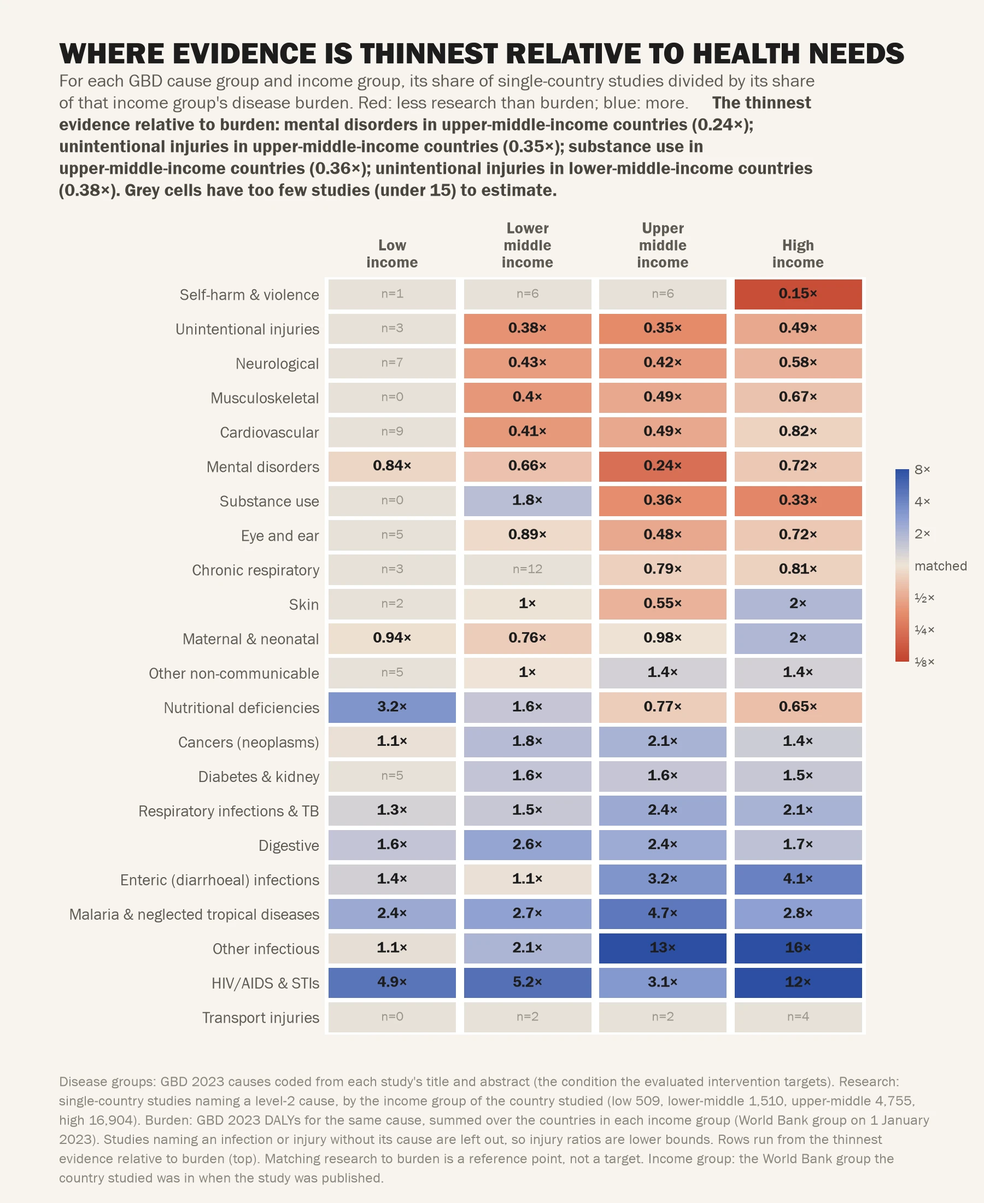
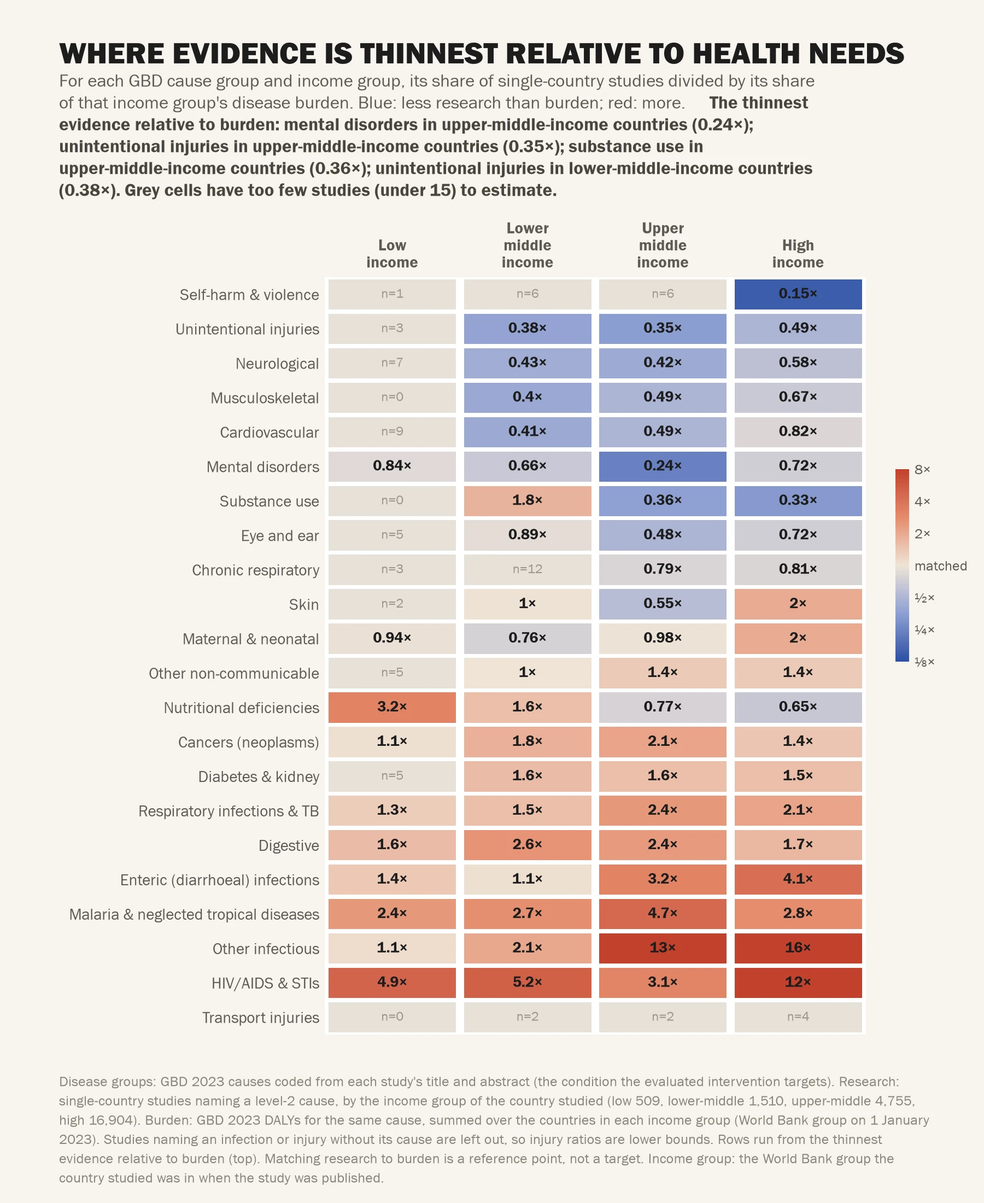
Read diverging scales like a heat map: blue = low, red = high
Flip the at-a-glance country map (EEs per 100,000 DALYs) and the
research-to-burden opportunity heatmap so low values are blue and high
values red, matching the usual heat-map reading. Subtitle updated.

Changed region(s): [[0.3111, 0.2164, 0.9333, 0.8345], [0.3733, 0.0618, 0.6844, 0.0927], [0.7156, 0.0618, 0.84, 0.0927]]

diff --git a/docs/figures/fig_glance_regions_who_v4.html b/docs/figures/fig_glance_regions_who_v4.html
@@ -101,7 +101,7 @@ h1 { font:800 34px/1.12 "Arial Narrow", "Roboto Condensed", Inter, sans-serif; f
       <div class="lab"><strong>Trend over time <button class="q" type="button" aria-label="What does this mean?" data-note="Cumulative share of the region&#x27;s countries and territories (all 204 with Global Burden of Disease 2023 data, assigned to WHO regions) named by at least one economic evaluation, or by two or more, by each year (reviews that report no evaluation of their own left out). The grey line is the same for all regions combined. The final, partial year of data is left out.">?</button></strong>% of the region's countries with an economic evaluation: solid = at least 1, dashed = 2 or more, grey = all regions (at least 1)</div>
     </div>
     
-      <div class="card" style="--accent:#eab69f">
+      <div class="card" style="--accent:#bcc0d4">
         <div class="sil" id="sil-AFR" aria-hidden="true"></div>
         <h3>African Region</h3>
         <div class="tagline"><span class="tag">AFR</span> n = 1,379</div>
@@ -117,7 +117,7 @@ h1 { font:800 34px/1.12 "Arial Narrow", "Roboto Condensed", Inter, sans-serif; f
         </div>
         <div class="row row-trend"><svg class="spark" viewBox="0 0 184 88" role="img" aria-label="Coverage trend"><line x1="4" x2="146" y1="70" y2="70" stroke="#d9d3c7"/><line x1="4" x2="146" y1="4" y2="4" stroke="#ece6da"/><path d="M4.0,46.1 L13.5,37.0 L22.9,32.8 L32.4,29.2 L41.9,26.3 L51.3,24.4 L60.8,22.1 L70.3,20.5 L79.7,19.5 L89.2,17.3 L98.7,15.3 L108.1,14.0 L117.6,13.1 L127.1,12.1 L136.5,12.1 L146.0,11.1" fill="none" stroke="#b3ada3" stroke-width="2"/><path d="M4.0,58.8 L13.5,46.1 L22.9,43.3 L32.4,40.5 L41.9,37.7 L51.3,27.9 L60.8,26.5 L70.3,22.3 L79.7,20.9 L89.2,18.0 L98.7,16.6 L108.1,15.2 L117.6,13.8 L127.1,13.8 L136.5,13.8 L146.0,12.4" fill="none" stroke="#1d1d1d" stroke-width="1.6" stroke-dasharray="4 3"/><path d="M4.0,48.9 L13.5,36.3 L22.9,33.5 L32.4,27.9 L41.9,23.7 L51.3,20.9 L60.8,20.9 L70.3,18.0 L79.7,18.0 L89.2,12.4 L98.7,11.0 L108.1,8.2 L117.6,8.2 L127.1,8.2 L136.5,8.2 L146.0,8.2" fill="none" stroke="#1d1d1d" stroke-width="1.8"/><text x="150.0" y="11.2">94%</text><text x="150.0" y="21.4">87%</text><text x="4" y="86">2010</text><text x="146" y="86" text-anchor="end">2025</text></svg></div>
       </div>
-      <div class="card" style="--accent:#8396ce">
+      <div class="card" style="--accent:#e08162">
         <div class="sil" id="sil-AMR" aria-hidden="true"></div>
         <h3>Region of the Americas</h3>
         <div class="tagline"><span class="tag">AMR</span> n = 9,580</div>
@@ -133,7 +133,7 @@ h1 { font:800 34px/1.12 "Arial Narrow", "Roboto Condensed", Inter, sans-serif; f
         </div>
         <div class="row row-trend"><svg class="spark" viewBox="0 0 184 88" role="img" aria-label="Coverage trend"><line x1="4" x2="146" y1="70" y2="70" stroke="#d9d3c7"/><line x1="4" x2="146" y1="4" y2="4" stroke="#ece6da"/><path d="M4.0,46.1 L13.5,37.0 L22.9,32.8 L32.4,29.2 L41.9,26.3 L51.3,24.4 L60.8,22.1 L70.3,20.5 L79.7,19.5 L89.2,17.3 L98.7,15.3 L108.1,14.0 L117.6,13.1 L127.1,12.1 L136.5,12.1 L146.0,11.1" fill="none" stroke="#b3ada3" stroke-width="2"/><path d="M4.0,56.1 L13.5,54.4 L22.9,50.9 L32.4,40.5 L41.9,35.3 L51.3,30.1 L60.8,30.1 L70.3,28.3 L79.7,28.3 L89.2,28.3 L98.7,28.3 L108.1,28.3 L117.6,28.3 L127.1,21.4 L136.5,19.6 L146.0,19.6" fill="none" stroke="#1d1d1d" stroke-width="1.6" stroke-dasharray="4 3"/><path d="M4.0,50.9 L13.5,42.2 L22.9,33.5 L32.4,30.1 L41.9,30.1 L51.3,28.3 L60.8,26.6 L70.3,24.8 L79.7,24.8 L89.2,23.1 L98.7,21.4 L108.1,19.6 L117.6,17.9 L127.1,16.2 L136.5,16.2 L146.0,16.2" fill="none" stroke="#1d1d1d" stroke-width="1.8"/><text x="150.0" y="19.2">82%</text><text x="150.0" y="28.6">76%</text><text x="4" y="86">2010</text><text x="146" y="86" text-anchor="end">2025</text></svg></div>
       </div>
-      <div class="card" style="--accent:#e8ab91">
+      <div class="card" style="--accent:#afb7d4">
         <div class="sil" id="sil-SEAR" aria-hidden="true"></div>
         <h3>South-East Asia Region</h3>
         <div class="tagline"><span class="tag">SEAR</span> n = 1,146</div>
@@ -149,7 +149,7 @@ h1 { font:800 34px/1.12 "Arial Narrow", "Roboto Condensed", Inter, sans-serif; f
         </div>
         <div class="row row-trend"><svg class="spark" viewBox="0 0 184 88" role="img" aria-label="Coverage trend"><line x1="4" x2="146" y1="70" y2="70" stroke="#d9d3c7"/><line x1="4" x2="146" y1="4" y2="4" stroke="#ece6da"/><path d="M4.0,46.1 L13.5,37.0 L22.9,32.8 L32.4,29.2 L41.9,26.3 L51.3,24.4 L60.8,22.1 L70.3,20.5 L79.7,19.5 L89.2,17.3 L98.7,15.3 L108.1,14.0 L117.6,13.1 L127.1,12.1 L136.5,12.1 L146.0,11.1" fill="none" stroke="#b3ada3" stroke-width="2"/><path d="M4.0,50.2 L13.5,43.6 L22.9,43.6 L32.4,43.6 L41.9,37.0 L51.3,30.4 L60.8,30.4 L70.3,30.4 L79.7,23.8 L89.2,23.8 L98.7,23.8 L108.1,23.8 L117.6,23.8 L127.1,23.8 L136.5,23.8 L146.0,17.2" fill="none" stroke="#1d1d1d" stroke-width="1.6" stroke-dasharray="4 3"/><path d="M4.0,43.6 L13.5,43.6 L22.9,30.4 L32.4,23.8 L41.9,23.8 L51.3,23.8 L60.8,17.2 L70.3,17.2 L79.7,17.2 L89.2,17.2 L98.7,10.6 L108.1,10.6 L117.6,10.6 L127.1,10.6 L136.5,10.6 L146.0,10.6" fill="none" stroke="#1d1d1d" stroke-width="1.8"/><text x="150.0" y="13.6">90%</text><text x="150.0" y="26.2">80%</text><text x="4" y="86">2010</text><text x="146" y="86" text-anchor="end">2025</text></svg></div>
       </div>
-      <div class="card" style="--accent:#8093cd">
+      <div class="card" style="--accent:#de7d5f">
         <div class="sil" id="sil-EUR" aria-hidden="true"></div>
         <h3>European Region</h3>
         <div class="tagline"><span class="tag">EUR</span> n = 9,825</div>
@@ -165,7 +165,7 @@ h1 { font:800 34px/1.12 "Arial Narrow", "Roboto Condensed", Inter, sans-serif; f
         </div>
         <div class="row row-trend"><svg class="spark" viewBox="0 0 184 88" role="img" aria-label="Coverage trend"><line x1="4" x2="146" y1="70" y2="70" stroke="#d9d3c7"/><line x1="4" x2="146" y1="4" y2="4" stroke="#ece6da"/><path d="M4.0,46.1 L13.5,37.0 L22.9,32.8 L32.4,29.2 L41.9,26.3 L51.3,24.4 L60.8,22.1 L70.3,20.5 L79.7,19.5 L89.2,17.3 L98.7,15.3 L108.1,14.0 L117.6,13.1 L127.1,12.1 L136.5,12.1 L146.0,11.1" fill="none" stroke="#b3ada3" stroke-width="2"/><path d="M4.0,46.8 L13.5,37.0 L22.9,29.7 L32.4,29.7 L41.9,26.0 L51.3,23.6 L60.8,22.3 L70.3,22.3 L79.7,17.4 L89.2,17.4 L98.7,15.0 L108.1,12.6 L117.6,11.3 L127.1,11.3 L136.5,8.9 L146.0,8.9" fill="none" stroke="#1d1d1d" stroke-width="1.6" stroke-dasharray="4 3"/><path d="M4.0,34.6 L13.5,24.8 L22.9,21.1 L32.4,21.1 L41.9,17.4 L51.3,17.4 L60.8,15.0 L70.3,13.8 L79.7,11.3 L89.2,11.3 L98.7,10.1 L108.1,8.9 L117.6,7.7 L127.1,7.7 L136.5,7.7 L146.0,6.4" fill="none" stroke="#1d1d1d" stroke-width="1.8"/><text x="150.0" y="9.4">96%</text><text x="150.0" y="17.9">93%</text><text x="4" y="86">2010</text><text x="146" y="86" text-anchor="end">2025</text></svg></div>
       </div>
-      <div class="card" style="--accent:#ebc2ad">
+      <div class="card" style="--accent:#c9c9d5">
         <div class="sil" id="sil-EMR" aria-hidden="true"></div>
         <h3>Eastern Mediterranean Region</h3>
         <div class="tagline"><span class="tag">EMR</span> n = 694</div>
@@ -181,7 +181,7 @@ h1 { font:800 34px/1.12 "Arial Narrow", "Roboto Condensed", Inter, sans-serif; f
         </div>
         <div class="row row-trend"><svg class="spark" viewBox="0 0 184 88" role="img" aria-label="Coverage trend"><line x1="4" x2="146" y1="70" y2="70" stroke="#d9d3c7"/><line x1="4" x2="146" y1="4" y2="4" stroke="#ece6da"/><path d="M4.0,46.1 L13.5,37.0 L22.9,32.8 L32.4,29.2 L41.9,26.3 L51.3,24.4 L60.8,22.1 L70.3,20.5 L79.7,19.5 L89.2,17.3 L98.7,15.3 L108.1,14.0 L117.6,13.1 L127.1,12.1 L136.5,12.1 L146.0,11.1" fill="none" stroke="#b3ada3" stroke-width="2"/><path d="M4.0,64.0 L13.5,55.0 L22.9,55.0 L32.4,55.0 L41.9,49.0 L51.3,43.0 L60.8,37.0 L70.3,31.0 L79.7,22.0 L89.2,19.0 L98.7,16.0 L108.1,16.0 L117.6,13.0 L127.1,10.0 L136.5,10.0 L146.0,7.0" fill="none" stroke="#1d1d1d" stroke-width="1.6" stroke-dasharray="4 3"/><path d="M4.0,55.0 L13.5,52.0 L22.9,49.0 L32.4,46.0 L41.9,37.0 L51.3,28.0 L60.8,19.0 L70.3,19.0 L79.7,16.0 L89.2,13.0 L98.7,7.0 L108.1,7.0 L117.6,4.0 L127.1,4.0 L136.5,4.0 L146.0,4.0" fill="none" stroke="#1d1d1d" stroke-width="1.8"/><text x="150.0" y="7.0">100%</text><text x="150.0" y="16.0">95%</text><text x="4" y="86">2010</text><text x="146" y="86" text-anchor="end">2025</text></svg></div>
       </div>
-      <div class="card" style="--accent:#c3c5d5">
+      <div class="card" style="--accent:#eabca6">
         <div class="sil" id="sil-WPR" aria-hidden="true"></div>
         <h3>Western Pacific Region</h3>
         <div class="tagline"><span class="tag">WPR</span> n = 6,492</div>
@@ -210,7 +210,7 @@ h1 { font:800 34px/1.12 "Arial Narrow", "Roboto Condensed", Inter, sans-serif; f
 <div id="pop" role="dialog"></div>
 <script src="https://cdn.jsdelivr.net/npm/plotly.js-dist-min@2.35.2/plotly.min.js" integrity="sha384-cCVCZkAjYNxaYKbM8lsArLznDF/SvMFr1jcZrvOpSTCa0W40ZAdLzHCEulnUa5i7" crossorigin="anonymous"></script>
 <script>
-const MAP = {"rows":[{"iso3":"ZWE","country":"Zimbabwe","n":57,"rate":0.7844369244913719},{"iso3":"ZMB","country":"Zambia","n":68,"rate":0.6749843776611878},{"iso3":"YEM","country":"Yemen","n":3,"rate":0.026674661876106044},{"iso3":"VNM","country":"Vietnam","n":116,"rate":0.39481590814229167},{"iso3":"VEN","country":"Venezuela","n":6,"rate":0.06141855327770367},{"iso3":"UZB","country":"Uzbekistan","n":8,"rate":0.07490399652597726},{"iso3":"URY","country":"Uruguay","n":12,"rate":1.0301834351716905},{"iso3":"USA","country":"United States of America","n":7127,"rate":5.783515819909612},{"iso3":"GBR","country":"United Kingdom","n":4037,"rate":18.10063765546812},{"iso3":"ARE","country":"United Arab Emirates","n":21,"rate":1.2272145956394054},{"iso3":"UKR","country":"Ukraine","n":38,"rate":0.20219819662342964},{"iso3":"UGA","country":"Uganda","n":168,"rate":0.8164343696653237},{"iso3":"TKM","country":"Turkmenistan","n":1,"rate":0.05471944601061876},{"iso3":"TUR","country":"Turkey","n":101,"rate":0.3956898549575197},{"iso3":"TUN","country":"Tunisia","n":13,"rate":0.35722367209541156},{"iso3":"TTO","country":"Trinidad and Tobago","n":2,"rate":0.3637511473958428},{"iso3":"TGO","country":"Togo","n":3,"rate":0.07297736449735341},{"iso3":"TLS","country":"East Timor","n":2,"rate":0.4061612750033562},{"iso3":"THA","country":"Thailand","n":407,"rate":1.7583557379587487},{"iso3":"TZA","country":"United Republic of Tanzania","n":98,"rate":0.4053663197482096},{"iso3":"TJK","country":"Tajikistan","n":3,"rate":0.10683287783508996},{"iso3":"TWN","country":"Taiwan","n":357,"rate":4.838019621808812},{"iso3":"SYR","country":"Syria","n":6,"rate":0.11795857846109545},{"iso3":"CHE","country":"Switzerland","n":183,"rate":7.531107847931505},{"iso3":"SWE","country":"Sweden","n":498,"rate":16.481756981234764},{"iso3":"SWZ","country":"eSwatini","n":11,"rate":1.60743713534673},{"iso3":"SSD","country":"South Sudan","n":8,"rate":0.11219339595647146},{"iso3":"SDN","country":"Sudan","n":7,"rate":0.05231457917564884},{"iso3":"LKA","country":"Sri Lanka","n":24,"rate":0.35399141366604203},{"iso3":"ESP","country":"Spain","n":870,"rate":6.145354856063795},{"iso3":"KOR","country":"South Korea","n":361,"rate":2.6890917810839596},{"iso3":"ZAF","country":"South Africa","n":353,"rate":1.1785586829277808},{"iso3":"SOM","country":"Somalia","n":9,"rate":0.06800456970038413},{"iso3":"SVK","country":"Slovakia","n":19,"rate":1.0170019617336152},{"iso3":"SVN","country":"Slovenia","n":15,"rate":2.1669298747189023},{"iso3":"SGP","country":"Singapore","n":203,"rate":17.13009207381549},{"iso3":"SLE","country":"Sierra Leone","n":19,"rate":0.35873836421206196},{"iso3":"SRB","country":"Republic of Serbia","n":45,"rate":1.2812824312501634},{"iso3":"SEN","country":"Senegal","n":24,"rate":0.35195366287736224},{"iso3":"SAU","country":"Saudi Arabia","n":78,"rate":1.077649447486615},{"iso3":"RWA","country":"Rwanda","n":21,"rate":0.3379340540226195},{"iso3":"RUS","country":"Russia","n":228,"rate":0.34734183786595324},{"iso3":"ROU","country":"Romania","n":27,"rate":0.35172913134156797},{"iso3":"QAT","country":"Qatar","n":24,"rate":5.2451355647087725},{"iso3":"PRT","country":"Portugal","n":116,"rate":3.2405954453504995},{"iso3":"POL","country":"Poland","n":83,"rate":0.603469160427631},{"iso3":"PHL","country":"Philippines","n":76,"rate":0.22610521750420093},{"iso3":"PER","country":"Peru","n":55,"rate":0.5399123939872716},{"iso3":"PRY","country":"Paraguay","n":7,"rate":0.3476571241472813},{"iso3":"PNG","country":"Papua New Guinea","n":9,"rate":0.2074124626974168},{"iso3":"PAN","country":"Panama","n":5,"rate":0.4524666671197644},{"iso3":"PAK","country":"Pakistan","n":111,"rate":0.1250830180317304},{"iso3":"OMN","country":"Oman","n":3,"rate":0.31872245970451346},{"iso3":"NOR","country":"Norway","n":180,"rate":12.034805436902113},{"iso3":"PRK","country":"North Korea","n":1,"rate":0.011146143347264936},{"iso3":"NGA","country":"Nigeria","n":128,"rate":0.09628816127208821},{"iso3":"NER","country":"Niger","n":18,"rate":0.08447058822356095},{"iso3":"NIC","country":"Nicaragua","n":16,"rate":0.921936966058181},{"iso3":"NZL","country":"New Zealand","n":150,"rate":10.163946648323874},{"iso3":"NLD","country":"Netherlands","n":1051,"rate":18.854099412991033},{"iso3":"NPL","country":"Nepal","n":25,"rate":0.2588536449413869},{"iso3":"NAM","country":"Namibia","n":11,"rate":0.8428721385334847},{"iso3":"MOZ","country":"Mozambique","n":43,"rate":0.25877861835902943},{"iso3":"MAR","country":"Morocco","n":15,"rate":0.1253375241302929},{"iso3":"MNG","country":"Mongolia","n":7,"rate":0.7062686075114906},{"iso3":"MDA","country":"Moldova","n":12,"rate":0.8669219051234337},{"iso3":"MEX","country":"Mexico","n":170,"rate":0.41403001438094844},{"iso3":"MUS","country":"Mauritius","n":0,"rate":0},{"iso3":"MRT","country":"Mauritania","n":2,"rate":0.11706707366022245},{"iso3":"MLI","country":"Mali","n":27,"rate":0.1788034779984762},{"iso3":"MYS","country":"Malaysia","n":99,"rate":1.1660109473232199},{"iso3":"MWI","country":"Malawi","n":94,"rate":0.9386714732409869},{"iso3":"MDG","country":"Madagascar","n":14,"rate":0.09295770112198803},{"iso3":"MKD","country":"North Macedonia","n":7,"rate":1.0498449124674512},{"iso3":"LTU","country":"Lithuania","n":8,"rate":0.6696081760333197},{"iso3":"LBY","country":"Libya","n":3,"rate":0.10960436471809107},{"iso3":"LBR","country":"Liberia","n":3,"rate":0.0899777649685817},{"iso3":"LSO","country":"Lesotho","n":9,"rate":0.7454580360378462},{"iso3":"LBN","country":"Lebanon","n":16,"rate":1.0316293635104221},{"iso3":"LVA","country":"Latvia","n":6,"rate":0.7204691589363261},{"iso3":"LAO","country":"Laos","n":16,"rate":0.5291715645096137},{"iso3":"KGZ","country":"Kyrgyzstan","n":5,"rate":0.28255197849466823},{"iso3":"KWT","country":"Kuwait","n":6,"rate":0.6971758869308864},{"iso3":"KEN","country":"Kenya","n":147,"rate":0.8383488883454899},{"iso3":"JOR","country":"Jordan","n":24,"rate":0.8887221913128912},{"iso3":"JPN","country":"Japan","n":772,"rate":1.818424846457386},{"iso3":"JAM","country":"Jamaica","n":3,"rate":0.3374744009622771},{"iso3":"ITA","country":"Italy","n":697,"rate":3.6524283496945436},{"iso3":"IRL","country":"Ireland","n":129,"rate":9.5097160805869},{"iso3":"IRQ","country":"Iraq","n":16,"rate":0.11919140248877932},{"iso3":"IRN","country":"Iran","n":265,"rate":1.2265332221605272},{"iso3":"IDN","country":"Indonesia","n":176,"rate":0.18563568807455746},{"iso3":"IND","country":"India","n":591,"rate":0.12201902029025767},{"iso3":"HUN","country":"Hungary","n":37,"rate":0.9465291793022469},{"iso3":"HND","country":"Honduras","n":9,"rate":0.3406738836365256},{"iso3":"HTI","country":"Haiti","n":17,"rate":0.22720120271044555},{"iso3":"GNB","country":"Guinea-Bissau","n":6,"rate":0.5039740275220852},{"iso3":"GIN","country":"Guinea","n":8,"rate":0.09878916882744448},{"iso3":"GTM","country":"Guatemala","n":16,"rate":0.3103701706274473},{"iso3":"GRC","country":"Greece","n":132,"rate":3.4730266719996243},{"iso3":"GHA","country":"Ghana","n":71,"rate":0.5021255482912063},{"iso3":"DEU","country":"Germany","n":811,"rate":2.7223011725914836},{"iso3":"GEO","country":"Georgia","n":24,"rate":1.6825144507567389},{"iso3":"GMB","country":"Gambia","n":13,"rate":1.225379543934015},{"iso3":"GAB","country":"Gabon","n":5,"rate":0.6193341550293507},{"iso3":"FRA","country":"France","n":561,"rate":2.667349557292816},{"iso3":"FIN","country":"Finland","n":133,"rate":7.231897839317065},{"iso3":"ETH","country":"Ethiopia","n":100,"rate":0.19213309982290125},{"iso3":"EST","country":"Estonia","n":12,"rate":2.409574801131672},{"iso3":"ERI","country":"Eritrea","n":0,"rate":0},{"iso3":"GNQ","country":"Equatorial Guinea","n":1,"rate":0.12901028296566022},{"iso3":"SLV","country":"El Salvador","n":8,"rate":0.3846796851010739},{"iso3":"EGY","country":"Egypt","n":86,"rate":0.2579873617178049},{"iso3":"ECU","country":"Ecuador","n":18,"rate":0.3438672719116922},{"iso3":"DOM","country":"Dominican Republic","n":7,"rate":0.1917126675537913},{"iso3":"DJI","country":"Djibouti","n":2,"rate":0.3608381347170817},{"iso3":"DNK","country":"Denmark","n":190,"rate":10.395110870468338},{"iso3":"CZE","country":"Czechia","n":70,"rate":1.892937875146366},{"iso3":"CYP","country":"Cyprus","n":3,"rate":0.8441758949693332},{"iso3":"HRV","country":"Croatia","n":20,"rate":1.3097250157938498},{"iso3":"CIV","country":"Ivory Coast","n":21,"rate":0.12238421142364174},{"iso3":"CRI","country":"Costa Rica","n":12,"rate":0.854614780364626},{"iso3":"COD","country":"Democratic Republic of the Congo","n":27,"rate":0.05103243859918476},{"iso3":"COG","country":"Republic of the Congo","n":2,"rate":0.07273523768725336},{"iso3":"COL","country":"Colombia","n":283,"rate":2.0699825533379568},{"iso3":"CHN","country":"China","n":3086,"rate":0.7881026569162158},{"iso3":"CHL","country":"Chile","n":72,"rate":1.39238716808149},{"iso3":"TCD","country":"Chad","n":8,"rate":0.05415433600823761},{"iso3":"CAF","country":"Central African Republic","n":3,"rate":0.0542144137773734},{"iso3":"CAN","country":"Canada","n":1347,"rate":11.050209252122905},{"iso3":"CMR","country":"Cameroon","n":24,"rate":0.13510533092026641},{"iso3":"KHM","country":"Cambodia","n":26,"rate":0.49836254535503427},{"iso3":"MMR","country":"Myanmar","n":19,"rate":0.07231190292807874},{"iso3":"BDI","country":"Burundi","n":10,"rate":0.11984003673748998},{"iso3":"BFA","country":"Burkina Faso","n":32,"rate":0.28067144912169245},{"iso3":"BGR","country":"Bulgaria","n":70,"rate":2.291447846923036},{"iso3":"BRA","country":"Brazil","n":480,"rate":0.6879830852496618},{"iso3":"BWA","country":"Botswana","n":14,"rate":1.5385094312668113},{"iso3":"BIH","country":"Bosnia and Herzegovina","n":6,"rate":0.49583449571442734},{"iso3":"BOL","country":"Bolivia","n":10,"rate":0.24963500822804513},{"iso3":"BEN","country":"Benin","n":12,"rate":0.17531685156574264},{"iso3":"BEL","country":"Belgium","n":177,"rate":4.978373353832121},{"iso3":"BLR","country":"Belarus","n":19,"rate":0.4745475188696125},{"iso3":"BGD","country":"Bangladesh","n":103,"rate":0.18484679946580446},{"iso3":"BHR","country":"Bahrain","n":2,"rate":0.6155194716324425},{"iso3":"AZE","country":"Azerbaijan","n":2,"rate":0.058774536695195834},{"iso3":"AUT","country":"Austria","n":60,"rate":2.1493683010364038},{"iso3":"AUS","country":"Australia","n":1008,"rate":13.810514105480754},{"iso3":"ARM","country":"Armenia","n":8,"rate":0.8662607527226102},{"iso3":"ARG","country":"Argentina","n":67,"rate":0.48013796390418},{"iso3":"AGO","country":"Angola","n":3,"rate":0.017091114937346535},{"iso3":"DZA","country":"Algeria","n":11,"rate":0.09204211749927683},{"iso3":"ALB","country":"Albania","n":8,"rate":1.080297703404085},{"iso3":"AFG","country":"Afghanistan","n":12,"rate":0.08302309495559165}],"zmin":-1.6119715861354385,"zmax":1.0070623767247158,"median":0.49836254535503427,"colours":[[0,"#c2412d"],[0.25,"#e58c6c"],[0.5,"#efe4d6"],[0.75,"#8d9fd3"],[1,"#4b64b4"]],"tags":[{"code":"AFR","lon":20,"lat":-6},{"code":"AMR","lon":-90,"lat":30},{"code":"SEAR","lon":80,"lat":20},{"code":"EUR","lon":62,"lat":56},{"code":"EMR","lon":45,"lat":24},{"code":"WPR","lon":110,"lat":32}],"silhouettes":{"AFR":{"isos":["AGO","BDI","BEN","BFA","BWA","CAF","CIV","CMR","COD","COG","DZA","ERI","ETH","GAB","GHA","GIN","GMB","GNB","GNQ","KEN","LBR","LSO","MDG","MLI","MOZ","MRT","MUS","MWI","NAM","NER","NGA","RWA","SEN","SLE","SSD","SWZ","TCD","TGO","TZA","UGA","ZAF","ZMB","ZWE","CPV","COM","STP","SYC"],"lon":[-26,58],"lat":[-35,38]},"AMR":{"isos":["ARG","BOL","BRA","CAN","CHL","COL","CRI","DOM","ECU","GTM","HND","HTI","JAM","MEX","NIC","PAN","PER","PRY","SLV","TTO","URY","USA","VEN","CUB","GUY","SUR","BLZ","BHS","PRI"],"lon":[-170,-34],"lat":[-56,72]},"SEAR":{"isos":["BGD","IND","LKA","MMR","NPL","PRK","THA","TLS","BTN","MDV"],"lon":[66,132],"lat":[-10,43]},"EUR":{"isos":["ALB","ARM","AUT","AZE","BEL","BGR","BIH","BLR","CHE","CYP","CZE","DEU","DNK","ESP","EST","FIN","FRA","GBR","GEO","GRC","HRV","HUN","IRL","ITA","KGZ","LTU","LVA","MDA","MKD","NLD","NOR","POL","PRT","ROU","RUS","SRB","SVK","SVN","SWE","TJK","TKM","TUR","UKR","UZB","KAZ","ISL","LUX","MNE","ISR","MLT"],"lon":[-25,180],"lat":[29,78]},"EMR":{"isos":["AFG","ARE","BHR","DJI","EGY","IRN","IRQ","JOR","KWT","LBN","LBY","MAR","OMN","PAK","QAT","SAU","SDN","SOM","SYR","TUN","YEM","PSE"],"lon":[-18,76],"lat":[-2,40]},"WPR":{"isos":["AUS","CHN","HKG","IDN","JPN","KHM","KOR","LAO","MNG","MYS","NZL","PHL","PNG","SGP","TWN","VNM","FJI","BRN","SLB","VUT"],"lon":[70,180],"lat":[-48,55]}}};
+const MAP = {"rows":[{"iso3":"ZWE","country":"Zimbabwe","n":57,"rate":0.7844369244913719},{"iso3":"ZMB","country":"Zambia","n":68,"rate":0.6749843776611878},{"iso3":"YEM","country":"Yemen","n":3,"rate":0.026674661876106044},{"iso3":"VNM","country":"Vietnam","n":116,"rate":0.39481590814229167},{"iso3":"VEN","country":"Venezuela","n":6,"rate":0.06141855327770367},{"iso3":"UZB","country":"Uzbekistan","n":8,"rate":0.07490399652597726},{"iso3":"URY","country":"Uruguay","n":12,"rate":1.0301834351716905},{"iso3":"USA","country":"United States of America","n":7127,"rate":5.783515819909612},{"iso3":"GBR","country":"United Kingdom","n":4037,"rate":18.10063765546812},{"iso3":"ARE","country":"United Arab Emirates","n":21,"rate":1.2272145956394054},{"iso3":"UKR","country":"Ukraine","n":38,"rate":0.20219819662342964},{"iso3":"UGA","country":"Uganda","n":168,"rate":0.8164343696653237},{"iso3":"TKM","country":"Turkmenistan","n":1,"rate":0.05471944601061876},{"iso3":"TUR","country":"Turkey","n":101,"rate":0.3956898549575197},{"iso3":"TUN","country":"Tunisia","n":13,"rate":0.35722367209541156},{"iso3":"TTO","country":"Trinidad and Tobago","n":2,"rate":0.3637511473958428},{"iso3":"TGO","country":"Togo","n":3,"rate":0.07297736449735341},{"iso3":"TLS","country":"East Timor","n":2,"rate":0.4061612750033562},{"iso3":"THA","country":"Thailand","n":407,"rate":1.7583557379587487},{"iso3":"TZA","country":"United Republic of Tanzania","n":98,"rate":0.4053663197482096},{"iso3":"TJK","country":"Tajikistan","n":3,"rate":0.10683287783508996},{"iso3":"TWN","country":"Taiwan","n":357,"rate":4.838019621808812},{"iso3":"SYR","country":"Syria","n":6,"rate":0.11795857846109545},{"iso3":"CHE","country":"Switzerland","n":183,"rate":7.531107847931505},{"iso3":"SWE","country":"Sweden","n":498,"rate":16.481756981234764},{"iso3":"SWZ","country":"eSwatini","n":11,"rate":1.60743713534673},{"iso3":"SSD","country":"South Sudan","n":8,"rate":0.11219339595647146},{"iso3":"SDN","country":"Sudan","n":7,"rate":0.05231457917564884},{"iso3":"LKA","country":"Sri Lanka","n":24,"rate":0.35399141366604203},{"iso3":"ESP","country":"Spain","n":870,"rate":6.145354856063795},{"iso3":"KOR","country":"South Korea","n":361,"rate":2.6890917810839596},{"iso3":"ZAF","country":"South Africa","n":353,"rate":1.1785586829277808},{"iso3":"SOM","country":"Somalia","n":9,"rate":0.06800456970038413},{"iso3":"SVK","country":"Slovakia","n":19,"rate":1.0170019617336152},{"iso3":"SVN","country":"Slovenia","n":15,"rate":2.1669298747189023},{"iso3":"SGP","country":"Singapore","n":203,"rate":17.13009207381549},{"iso3":"SLE","country":"Sierra Leone","n":19,"rate":0.35873836421206196},{"iso3":"SRB","country":"Republic of Serbia","n":45,"rate":1.2812824312501634},{"iso3":"SEN","country":"Senegal","n":24,"rate":0.35195366287736224},{"iso3":"SAU","country":"Saudi Arabia","n":78,"rate":1.077649447486615},{"iso3":"RWA","country":"Rwanda","n":21,"rate":0.3379340540226195},{"iso3":"RUS","country":"Russia","n":228,"rate":0.34734183786595324},{"iso3":"ROU","country":"Romania","n":27,"rate":0.35172913134156797},{"iso3":"QAT","country":"Qatar","n":24,"rate":5.2451355647087725},{"iso3":"PRT","country":"Portugal","n":116,"rate":3.2405954453504995},{"iso3":"POL","country":"Poland","n":83,"rate":0.603469160427631},{"iso3":"PHL","country":"Philippines","n":76,"rate":0.22610521750420093},{"iso3":"PER","country":"Peru","n":55,"rate":0.5399123939872716},{"iso3":"PRY","country":"Paraguay","n":7,"rate":0.3476571241472813},{"iso3":"PNG","country":"Papua New Guinea","n":9,"rate":0.2074124626974168},{"iso3":"PAN","country":"Panama","n":5,"rate":0.4524666671197644},{"iso3":"PAK","country":"Pakistan","n":111,"rate":0.1250830180317304},{"iso3":"OMN","country":"Oman","n":3,"rate":0.31872245970451346},{"iso3":"NOR","country":"Norway","n":180,"rate":12.034805436902113},{"iso3":"PRK","country":"North Korea","n":1,"rate":0.011146143347264936},{"iso3":"NGA","country":"Nigeria","n":128,"rate":0.09628816127208821},{"iso3":"NER","country":"Niger","n":18,"rate":0.08447058822356095},{"iso3":"NIC","country":"Nicaragua","n":16,"rate":0.921936966058181},{"iso3":"NZL","country":"New Zealand","n":150,"rate":10.163946648323874},{"iso3":"NLD","country":"Netherlands","n":1051,"rate":18.854099412991033},{"iso3":"NPL","country":"Nepal","n":25,"rate":0.2588536449413869},{"iso3":"NAM","country":"Namibia","n":11,"rate":0.8428721385334847},{"iso3":"MOZ","country":"Mozambique","n":43,"rate":0.25877861835902943},{"iso3":"MAR","country":"Morocco","n":15,"rate":0.1253375241302929},{"iso3":"MNG","country":"Mongolia","n":7,"rate":0.7062686075114906},{"iso3":"MDA","country":"Moldova","n":12,"rate":0.8669219051234337},{"iso3":"MEX","country":"Mexico","n":170,"rate":0.41403001438094844},{"iso3":"MUS","country":"Mauritius","n":0,"rate":0},{"iso3":"MRT","country":"Mauritania","n":2,"rate":0.11706707366022245},{"iso3":"MLI","country":"Mali","n":27,"rate":0.1788034779984762},{"iso3":"MYS","country":"Malaysia","n":99,"rate":1.1660109473232199},{"iso3":"MWI","country":"Malawi","n":94,"rate":0.9386714732409869},{"iso3":"MDG","country":"Madagascar","n":14,"rate":0.09295770112198803},{"iso3":"MKD","country":"North Macedonia","n":7,"rate":1.0498449124674512},{"iso3":"LTU","country":"Lithuania","n":8,"rate":0.6696081760333197},{"iso3":"LBY","country":"Libya","n":3,"rate":0.10960436471809107},{"iso3":"LBR","country":"Liberia","n":3,"rate":0.0899777649685817},{"iso3":"LSO","country":"Lesotho","n":9,"rate":0.7454580360378462},{"iso3":"LBN","country":"Lebanon","n":16,"rate":1.0316293635104221},{"iso3":"LVA","country":"Latvia","n":6,"rate":0.7204691589363261},{"iso3":"LAO","country":"Laos","n":16,"rate":0.5291715645096137},{"iso3":"KGZ","country":"Kyrgyzstan","n":5,"rate":0.28255197849466823},{"iso3":"KWT","country":"Kuwait","n":6,"rate":0.6971758869308864},{"iso3":"KEN","country":"Kenya","n":147,"rate":0.8383488883454899},{"iso3":"JOR","country":"Jordan","n":24,"rate":0.8887221913128912},{"iso3":"JPN","country":"Japan","n":772,"rate":1.818424846457386},{"iso3":"JAM","country":"Jamaica","n":3,"rate":0.3374744009622771},{"iso3":"ITA","country":"Italy","n":697,"rate":3.6524283496945436},{"iso3":"IRL","country":"Ireland","n":129,"rate":9.5097160805869},{"iso3":"IRQ","country":"Iraq","n":16,"rate":0.11919140248877932},{"iso3":"IRN","country":"Iran","n":265,"rate":1.2265332221605272},{"iso3":"IDN","country":"Indonesia","n":176,"rate":0.18563568807455746},{"iso3":"IND","country":"India","n":591,"rate":0.12201902029025767},{"iso3":"HUN","country":"Hungary","n":37,"rate":0.9465291793022469},{"iso3":"HND","country":"Honduras","n":9,"rate":0.3406738836365256},{"iso3":"HTI","country":"Haiti","n":17,"rate":0.22720120271044555},{"iso3":"GNB","country":"Guinea-Bissau","n":6,"rate":0.5039740275220852},{"iso3":"GIN","country":"Guinea","n":8,"rate":0.09878916882744448},{"iso3":"GTM","country":"Guatemala","n":16,"rate":0.3103701706274473},{"iso3":"GRC","country":"Greece","n":132,"rate":3.4730266719996243},{"iso3":"GHA","country":"Ghana","n":71,"rate":0.5021255482912063},{"iso3":"DEU","country":"Germany","n":811,"rate":2.7223011725914836},{"iso3":"GEO","country":"Georgia","n":24,"rate":1.6825144507567389},{"iso3":"GMB","country":"Gambia","n":13,"rate":1.225379543934015},{"iso3":"GAB","country":"Gabon","n":5,"rate":0.6193341550293507},{"iso3":"FRA","country":"France","n":561,"rate":2.667349557292816},{"iso3":"FIN","country":"Finland","n":133,"rate":7.231897839317065},{"iso3":"ETH","country":"Ethiopia","n":100,"rate":0.19213309982290125},{"iso3":"EST","country":"Estonia","n":12,"rate":2.409574801131672},{"iso3":"ERI","country":"Eritrea","n":0,"rate":0},{"iso3":"GNQ","country":"Equatorial Guinea","n":1,"rate":0.12901028296566022},{"iso3":"SLV","country":"El Salvador","n":8,"rate":0.3846796851010739},{"iso3":"EGY","country":"Egypt","n":86,"rate":0.2579873617178049},{"iso3":"ECU","country":"Ecuador","n":18,"rate":0.3438672719116922},{"iso3":"DOM","country":"Dominican Republic","n":7,"rate":0.1917126675537913},{"iso3":"DJI","country":"Djibouti","n":2,"rate":0.3608381347170817},{"iso3":"DNK","country":"Denmark","n":190,"rate":10.395110870468338},{"iso3":"CZE","country":"Czechia","n":70,"rate":1.892937875146366},{"iso3":"CYP","country":"Cyprus","n":3,"rate":0.8441758949693332},{"iso3":"HRV","country":"Croatia","n":20,"rate":1.3097250157938498},{"iso3":"CIV","country":"Ivory Coast","n":21,"rate":0.12238421142364174},{"iso3":"CRI","country":"Costa Rica","n":12,"rate":0.854614780364626},{"iso3":"COD","country":"Democratic Republic of the Congo","n":27,"rate":0.05103243859918476},{"iso3":"COG","country":"Republic of the Congo","n":2,"rate":0.07273523768725336},{"iso3":"COL","country":"Colombia","n":283,"rate":2.0699825533379568},{"iso3":"CHN","country":"China","n":3086,"rate":0.7881026569162158},{"iso3":"CHL","country":"Chile","n":72,"rate":1.39238716808149},{"iso3":"TCD","country":"Chad","n":8,"rate":0.05415433600823761},{"iso3":"CAF","country":"Central African Republic","n":3,"rate":0.0542144137773734},{"iso3":"CAN","country":"Canada","n":1347,"rate":11.050209252122905},{"iso3":"CMR","country":"Cameroon","n":24,"rate":0.13510533092026641},{"iso3":"KHM","country":"Cambodia","n":26,"rate":0.49836254535503427},{"iso3":"MMR","country":"Myanmar","n":19,"rate":0.07231190292807874},{"iso3":"BDI","country":"Burundi","n":10,"rate":0.11984003673748998},{"iso3":"BFA","country":"Burkina Faso","n":32,"rate":0.28067144912169245},{"iso3":"BGR","country":"Bulgaria","n":70,"rate":2.291447846923036},{"iso3":"BRA","country":"Brazil","n":480,"rate":0.6879830852496618},{"iso3":"BWA","country":"Botswana","n":14,"rate":1.5385094312668113},{"iso3":"BIH","country":"Bosnia and Herzegovina","n":6,"rate":0.49583449571442734},{"iso3":"BOL","country":"Bolivia","n":10,"rate":0.24963500822804513},{"iso3":"BEN","country":"Benin","n":12,"rate":0.17531685156574264},{"iso3":"BEL","country":"Belgium","n":177,"rate":4.978373353832121},{"iso3":"BLR","country":"Belarus","n":19,"rate":0.4745475188696125},{"iso3":"BGD","country":"Bangladesh","n":103,"rate":0.18484679946580446},{"iso3":"BHR","country":"Bahrain","n":2,"rate":0.6155194716324425},{"iso3":"AZE","country":"Azerbaijan","n":2,"rate":0.058774536695195834},{"iso3":"AUT","country":"Austria","n":60,"rate":2.1493683010364038},{"iso3":"AUS","country":"Australia","n":1008,"rate":13.810514105480754},{"iso3":"ARM","country":"Armenia","n":8,"rate":0.8662607527226102},{"iso3":"ARG","country":"Argentina","n":67,"rate":0.48013796390418},{"iso3":"AGO","country":"Angola","n":3,"rate":0.017091114937346535},{"iso3":"DZA","country":"Algeria","n":11,"rate":0.09204211749927683},{"iso3":"ALB","country":"Albania","n":8,"rate":1.080297703404085},{"iso3":"AFG","country":"Afghanistan","n":12,"rate":0.08302309495559165}],"zmin":-1.6119715861354385,"zmax":1.0070623767247158,"median":0.49836254535503427,"colours":[[0,"#4b64b4"],[0.25,"#8d9fd3"],[0.5,"#efe4d6"],[0.75,"#e58c6c"],[1,"#c2412d"]],"tags":[{"code":"AFR","lon":20,"lat":-6},{"code":"AMR","lon":-90,"lat":30},{"code":"SEAR","lon":80,"lat":20},{"code":"EUR","lon":62,"lat":56},{"code":"EMR","lon":45,"lat":24},{"code":"WPR","lon":110,"lat":32}],"silhouettes":{"AFR":{"isos":["AGO","BDI","BEN","BFA","BWA","CAF","CIV","CMR","COD","COG","DZA","ERI","ETH","GAB","GHA","GIN","GMB","GNB","GNQ","KEN","LBR","LSO","MDG","MLI","MOZ","MRT","MUS","MWI","NAM","NER","NGA","RWA","SEN","SLE","SSD","SWZ","TCD","TGO","TZA","UGA","ZAF","ZMB","ZWE","CPV","COM","STP","SYC"],"lon":[-26,58],"lat":[-35,38]},"AMR":{"isos":["ARG","BOL","BRA","CAN","CHL","COL","CRI","DOM","ECU","GTM","HND","HTI","JAM","MEX","NIC","PAN","PER","PRY","SLV","TTO","URY","USA","VEN","CUB","GUY","SUR","BLZ","BHS","PRI"],"lon":[-170,-34],"lat":[-56,72]},"SEAR":{"isos":["BGD","IND","LKA","MMR","NPL","PRK","THA","TLS","BTN","MDV"],"lon":[66,132],"lat":[-10,43]},"EUR":{"isos":["ALB","ARM","AUT","AZE","BEL","BGR","BIH","BLR","CHE","CYP","CZE","DEU","DNK","ESP","EST","FIN","FRA","GBR","GEO","GRC","HRV","HUN","IRL","ITA","KGZ","LTU","LVA","MDA","MKD","NLD","NOR","POL","PRT","ROU","RUS","SRB","SVK","SVN","SWE","TJK","TKM","TUR","UKR","UZB","KAZ","ISL","LUX","MNE","ISR","MLT"],"lon":[-25,180],"lat":[29,78]},"EMR":{"isos":["AFG","ARE","BHR","DJI","EGY","IRN","IRQ","JOR","KWT","LBN","LBY","MAR","OMN","PAK","QAT","SAU","SDN","SOM","SYR","TUN","YEM","PSE"],"lon":[-18,76],"lat":[-2,40]},"WPR":{"isos":["AUS","CHN","HKG","IDN","JPN","KHM","KOR","LAO","MNG","MYS","NZL","PHL","PNG","SGP","TWN","VNM","FJI","BRN","SLB","VUT"],"lon":[70,180],"lat":[-48,55]}}};
 (function () {
   const rows = MAP.rows;
   const z = rows.map(r => r.rate > 0 ? Math.log10(r.rate) : null);

diff --git a/scripts/build_gbd_figures.py b/scripts/build_gbd_figures.py
@@ -630,12 +630,12 @@ def opportunity(rows, b):
     fig = plt.figure(figsize=(9, 11))
     y = pf.header(fig, "Where evidence is thinnest relative to health needs",
                   "For each GBD cause group and income group, its share of single-country studies divided by its "
-                  "share of that income group's disease burden. Red: less research than burden; blue: more.",
+                  "share of that income group's disease burden. Blue: less research than burden; red: more.",
                   "The thinnest evidence relative to burden: "
                   + "; ".join(f"{LABEL[c].lower()} in {short[g]} countries ({v:.2g}×)" for v, c, g in worst)
                   + f". Grey cells have too few studies (under {MIN_N}) to estimate.", width=100)
     ax = fig.add_axes([.33, .14, .55, y - .2])
-    cmap = LinearSegmentedColormap.from_list("gap", ["#c2412d", "#e58c6c", "#efe4d6", "#8d9fd3", "#2c4fa3"])
+    cmap = LinearSegmentedColormap.from_list("gap", ["#2c4fa3", "#8d9fd3", "#efe4d6", "#e58c6c", "#c2412d"])
     norm = TwoSlopeNorm(vcenter=0, vmin=-3, vmax=3)
     for i, c in enumerate(order):
         for j, g in enumerate(GROUPS):

diff --git a/scripts/build_glance_regions_who_v4.py b/scripts/build_glance_regions_who_v4.py
@@ -87,8 +87,8 @@ DISEASE_CATEGORY = {
 }
 CATEGORIES = ["Communicable", "Non-communicable", "Injuries"]
 CAT_COLOURS = {"Communicable": "#3f8f80", "Non-communicable": "#8a63a8", "Injuries": "#d8a03c"}
-# Diverging map ramp: under-represented (red) -> median (sand) -> high (blue).
-MAP_COLOURS = [[0, "#c2412d"], [0.25, "#e58c6c"], [0.5, "#efe4d6"], [0.75, "#8d9fd3"], [1, "#4b64b4"]]
+# Diverging map ramp, read like a heat map: low (blue) -> median (sand) -> high (red).
+MAP_COLOURS = [[0, "#4b64b4"], [0.25, "#8d9fd3"], [0.5, "#efe4d6"], [0.75, "#e58c6c"], [1, "#c2412d"]]
 PLOTLY_SRC = "https://cdn.jsdelivr.net/npm/plotly.js-dist-min@2.35.2/plotly.min.js"
 PLOTLY_SRI = "sha384-cCVCZkAjYNxaYKbM8lsArLznDF/SvMFr1jcZrvOpSTCa0W40ZAdLzHCEulnUa5i7"
 
